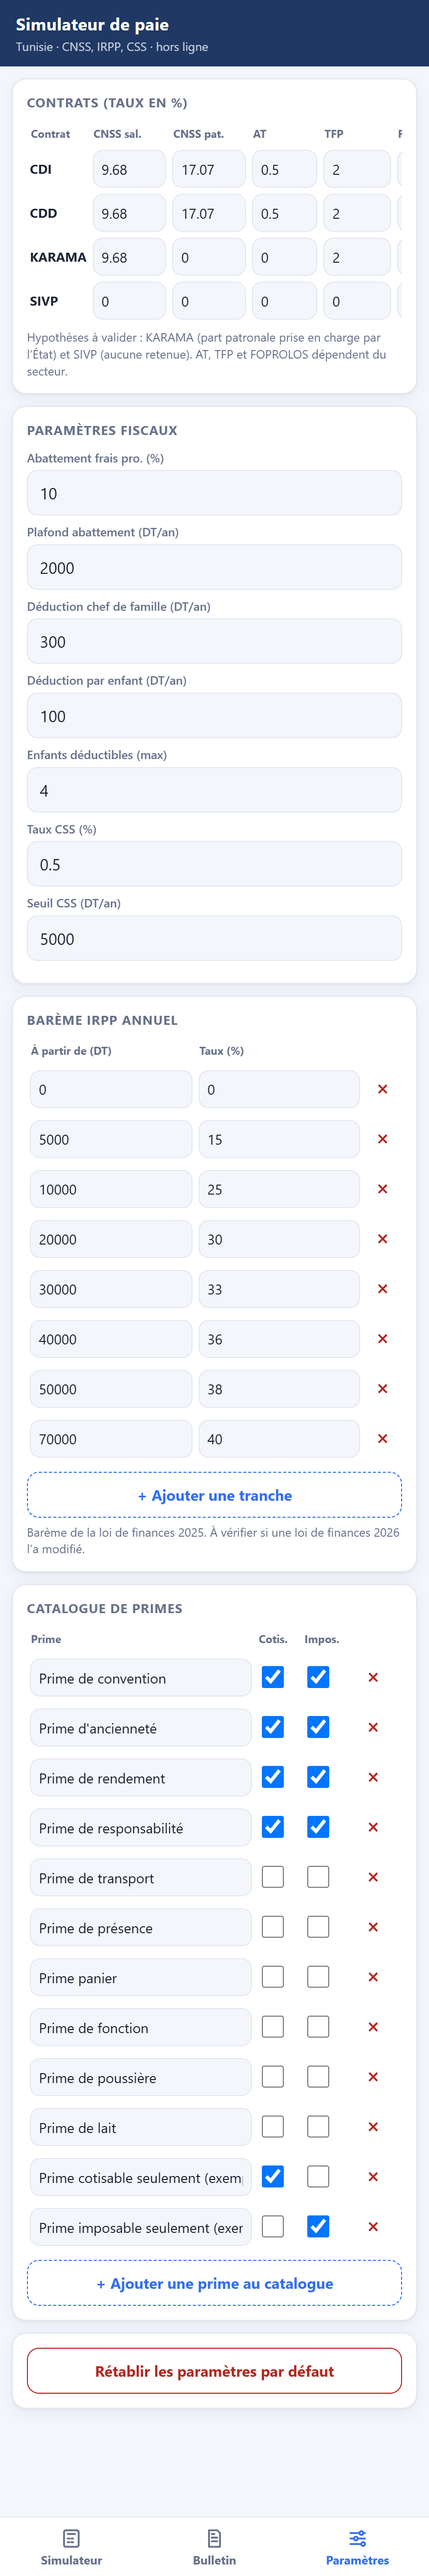
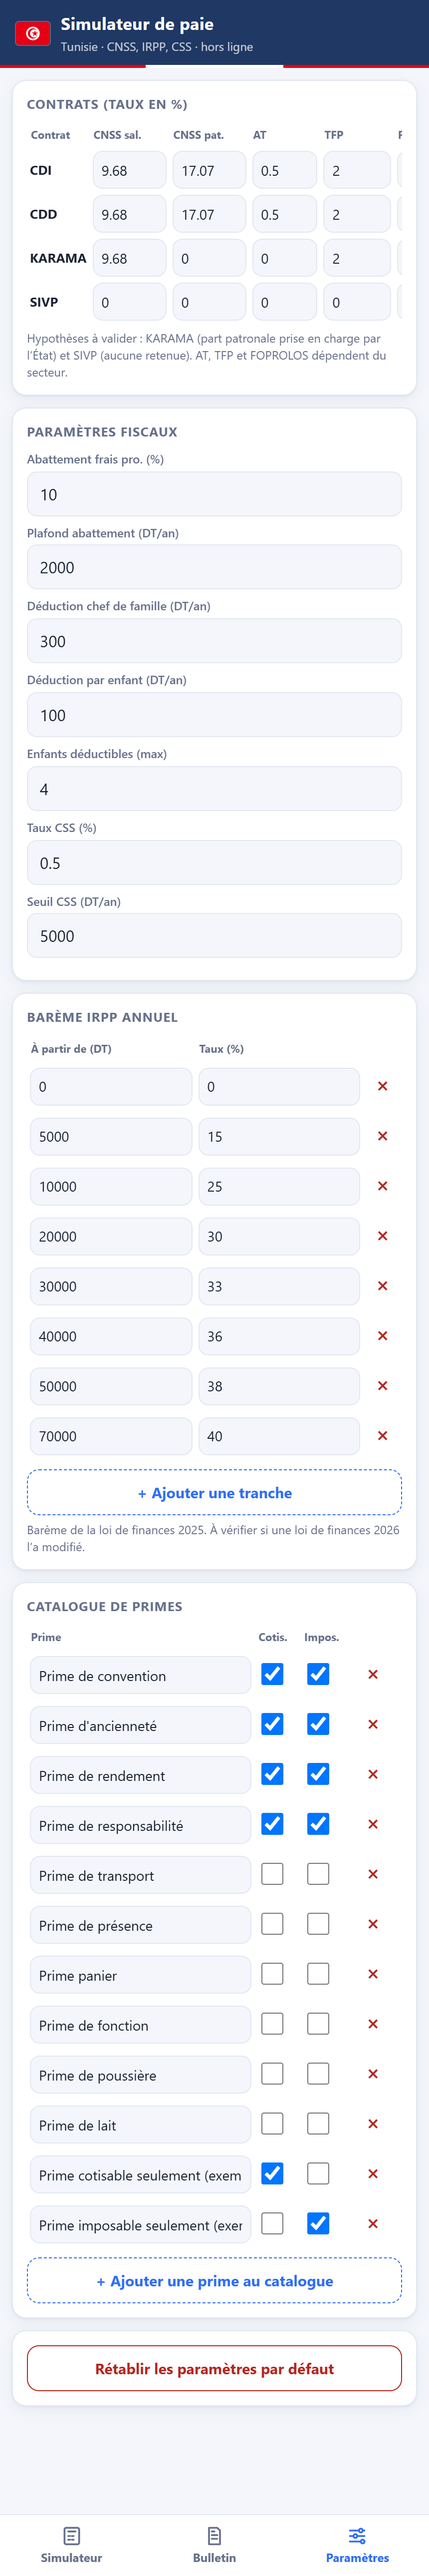
feat: nouveau modele de bulletin noir et blanc, tampon et design tunisien
Bulletin :
- nouveau modele noir et blanc, propre au projet, choisi par defaut :
  en-tete employeur / salarie, bandeau contrat-regime, gains, retenues
  salariales et charges patronales regroupes par section, net a payer
  en encadre, conges et paiement en pied de page
- filigrane au nom de l'auteur en fond de page, tampon d'auteur grave
  en SVG (croissant et etoile) et mention de droit d'auteur en pied
- le filigrane et le tampon sont conserves a l'impression
- l'ancien modele reste disponible via la liste "Modele du bulletin"
- le regime horaire du bulletin est deduit automatiquement

Interface :
- drapeau tunisien en en-tete et filet rouge et blanc
- icones de section en SVG sur chaque carte

README : captures a jour, section sur les deux modeles, note sur le
filigrane, le tampon et les couleurs de l'interface.

sw.js : cache paie-tn-v4.

diff --git a/index.html b/index.html
@@ -22,9 +22,14 @@
 }
 *{box-sizing:border-box;-webkit-tap-highlight-color:transparent}
 html,body{margin:0;background:var(--bg);color:var(--ink);font:15px/1.4 -apple-system,BlinkMacSystemFont,"Segoe UI",Roboto,Arial,sans-serif}
-header{background:var(--navy);color:#fff;padding:calc(env(safe-area-inset-top) + 12px) 16px 12px;position:sticky;top:0;z-index:5}
+header{background:var(--navy);color:#fff;padding:calc(env(safe-area-inset-top) + 12px) 16px 13px;position:sticky;top:0;z-index:5}
 header h1{margin:0;font-size:17px;font-weight:700;letter-spacing:.2px}
 header p{margin:2px 0 0;font-size:12px;opacity:.75}
+header .hwrap{display:flex;align-items:center;gap:11px}
+header .flag{width:34px;height:23px;border-radius:3px;flex:0 0 auto;box-shadow:0 0 0 1px rgba(255,255,255,.25)}
+header::after{content:"";position:absolute;left:0;right:0;bottom:0;height:3px;background:linear-gradient(90deg,#E70013 0 34%,#fff 34% 66%,#E70013 66%)}
+.card h2{display:flex;align-items:center;gap:7px}
+.card h2 svg{width:15px;height:15px;flex:0 0 auto;stroke:currentColor;fill:none;stroke-width:2;stroke-linecap:round;stroke-linejoin:round;opacity:.9}
 main{padding:12px 12px calc(84px + env(safe-area-inset-bottom));max-width:640px;margin:0 auto}
 .card{background:var(--card);border-radius:14px;padding:14px;margin-bottom:12px;box-shadow:var(--shadow);border:1px solid var(--line)}
 .card h2{margin:0 0 10px;font-size:13px;text-transform:uppercase;letter-spacing:.6px;color:var(--muted);font-weight:700}
@@ -125,20 +130,81 @@ table.p-tab tr.fill td{height:100%;padding:0;border-bottom:1px solid #000}
 .p-cg div+div{border-left:1px solid #000;justify-content:center}
 .bul-field label{margin-top:8px}
 
+/* ---------- modèle noir et blanc ---------- */
+.paper.bw{font:11px/1.35 "Segoe UI",Arial,Helvetica,sans-serif;padding:24px 26px 18px;position:relative;overflow:hidden}
+.paper.bw>*:not(.wm){position:relative;z-index:1}
+.wm{position:absolute;inset:0;display:flex;align-items:center;justify-content:center;pointer-events:none;z-index:0;overflow:hidden}
+.wm span{font-size:56px;font-weight:800;letter-spacing:8px;color:#000;opacity:.05;transform:rotate(-27deg);white-space:nowrap;text-transform:uppercase}
+.bw-head{display:flex;justify-content:space-between;align-items:flex-end;border-bottom:2.5px solid #000;padding-bottom:9px}
+.bw-head h1{margin:0;font-size:19px;letter-spacing:4px;font-weight:800;text-transform:uppercase}
+.bw-head .soc{font-size:12px;font-weight:700;margin-top:5px}
+.bw-head .adr{font-size:10px;margin-top:1px}
+.bw-head .per{text-align:right;font-size:10px;line-height:1.6}
+.bw-head .per b{display:block;font-size:14px;letter-spacing:1.5px;text-transform:uppercase}
+.bw-sub{border-top:1px solid #000;margin-top:2px;margin-bottom:14px}
+.bw-cols{display:grid;grid-template-columns:1fr 1fr;gap:0;border:1px solid #000;margin-bottom:12px}
+.bw-cols>div{padding:8px 11px}
+.bw-cols>div+div{border-left:1px solid #000}
+.bw-cols h3{margin:0 0 6px;font-size:9.5px;letter-spacing:2px;text-transform:uppercase;font-weight:800;border-bottom:1px solid #000;padding-bottom:4px}
+.bw-l{display:flex;gap:8px;padding:2px 0;align-items:baseline}
+.bw-l b{min-width:84px;font-weight:600;font-size:10px;text-transform:uppercase;letter-spacing:.3px}
+.bw-l span{flex:1;font-weight:700}
+.bw-band{display:flex;flex-wrap:wrap;gap:0 18px;border:1px solid #000;border-top:0;margin:-12px 0 14px;padding:6px 11px;font-size:10.5px}
+.bw-band i{font-style:normal;text-transform:uppercase;letter-spacing:.4px}
+.bw-band i b{font-weight:800}
+table.bw-tab{width:100%;border-collapse:collapse;font-size:11px;margin-bottom:0}
+table.bw-tab thead th{border-top:1px solid #000;border-bottom:1px solid #000;padding:6px 5px;font-size:9.5px;letter-spacing:1px;text-transform:uppercase;font-weight:800;text-align:right}
+table.bw-tab thead th:first-child{text-align:left}
+table.bw-tab td{padding:4px 5px;text-align:right;white-space:nowrap}
+table.bw-tab td:first-child{text-align:left;white-space:normal}
+table.bw-tab tr.sec td{padding:10px 5px 3px;font-size:9.5px;letter-spacing:1.6px;text-transform:uppercase;font-weight:800}
+table.bw-tab tr.rule td{border-bottom:1px solid #000;padding:0;height:1px}
+table.bw-tab tr.tot td{font-weight:800;border-top:1px solid #000;border-bottom:1px solid #000}
+table.bw-tab tr.dim td{opacity:.72}
+.bw-net{display:flex;justify-content:space-between;align-items:center;border:2.5px solid #000;padding:10px 14px;margin:14px 0 14px}
+.bw-net span{font-size:10.5px;letter-spacing:2.4px;text-transform:uppercase;font-weight:800}
+.bw-net b{font-size:20px;font-weight:800;letter-spacing:.5px}
+.bw-foot{display:grid;grid-template-columns:1fr 212px;gap:16px;align-items:start}
+.bw-mini{width:100%;border-collapse:collapse;font-size:10px}
+.bw-mini th{text-align:left;font-size:9px;letter-spacing:1.2px;text-transform:uppercase;border-bottom:1px solid #000;padding:4px 5px;font-weight:800}
+.bw-mini td{padding:3px 5px;border-bottom:1px solid #bbb}
+.bw-mini td:last-child{text-align:right;font-weight:700}
+.bw-sg{display:grid;grid-template-columns:1fr 1fr;gap:14px;margin-top:14px}
+.bw-sg div b{display:block;font-size:9px;letter-spacing:1.2px;text-transform:uppercase;margin-bottom:5px}
+.bw-sg div i{display:block;border-bottom:1px solid #000;height:62px}
+.bw-seal{position:relative;text-align:center}
+.bw-seal svg{width:122px;height:122px;transform:rotate(-7deg);opacity:.88}
+.bw-seal p{margin:4px 0 0;font-size:8.5px;letter-spacing:.6px;line-height:1.45}
+.bw-copy{border-top:1px solid #000;margin-top:14px;padding-top:7px;display:flex;justify-content:space-between;font-size:8.5px;letter-spacing:.4px}
+
 @media print{
   @page{size:A4;margin:8mm}
   html,body{background:#fff !important}
   body *{visibility:hidden}
   #paper,#paper *{visibility:visible}
   #paper{position:absolute;left:0;top:0;transform:none !important;width:720px;padding:0}
+  .paper.bw{padding:4px 2px !important}
   .paper-wrap{overflow:visible;box-shadow:none;height:auto !important}
+  /* le filigrane et le tampon doivent sortir à l'impression */
+  .wm,.wm span,.bw-seal,.bw-seal svg{-webkit-print-color-adjust:exact;print-color-adjust:exact}
 }
 </style>
 </head>
 <body>
 <header>
-  <h1>Simulateur de paie</h1>
-  <p>Tunisie · CNSS, IRPP, CSS · hors ligne</p>
+  <div class="hwrap">
+    <svg class="flag" viewBox="0 0 60 40" role="img" aria-label="Drapeau de la Tunisie">
+      <rect width="60" height="40" fill="#E70013"/>
+      <circle cx="30" cy="20" r="12" fill="#fff"/>
+      <circle cx="30" cy="20" r="9" fill="#E70013"/>
+      <circle cx="32.2" cy="20" r="7.2" fill="#fff"/>
+      <path fill="#E70013" d="M33.5,14 L34.85,18.15 L39.21,18.15 L35.68,20.71 L37.03,24.85 L33.5,22.29 L29.97,24.85 L31.32,20.71 L27.79,18.15 L32.15,18.15 Z"/>
+    </svg>
+    <div>
+      <h1>Simulateur de paie</h1>
+      <p>Tunisie · CNSS, IRPP, CSS · hors ligne</p>
+    </div>
+  </div>
 </header>
 <main id="app"></main>
 <nav>
@@ -177,7 +243,7 @@ table.p-tab tr.fill td{height:100%;padding:0;border-bottom:1px solid #000}
 
   var now = new Date();
   var BUL_DEF = { societe: '', adresseSoc: '', affil: '', annee: String(now.getFullYear()), mois: MOIS[now.getMonth()],
-    matricule: '', cnssNo: '', emploi: '', categorie: '1', echelon: '1', regime: 'TEMPS PLEIN', adresse: '', cin: '', dept: '',
+    matricule: '', cnssNo: '', emploi: '', categorie: '1', echelon: '1', regime: 'TEMPS PLEIN', template: 'bw', adresse: '', cin: '', dept: '',
     paiement: 'Virement', banque: '', compte: '', acquis: '2', solde: '0' };
   var state = load(KEY_S) || {};
   var bul = Object.assign({}, BUL_DEF, state.bul || {});
@@ -227,6 +293,19 @@ table.p-tab tr.fill td{height:100%;padding:0;border-bottom:1px solid #000}
   function optionsHtml(list, sel) {
     return list.map(function (v) { return '<option value="' + esc(v) + '"' + (v === sel ? ' selected' : '') + '>' + esc(v) + '</option>'; }).join('');
   }
+  // petites icônes de section (tracé simple, couleur héritée du titre)
+  var ICONS = {
+    contrat: '<path d="M6 2h8l4 4v16H6z"/><path d="M14 2v5h5"/><path d="M9 12h7M9 16h5"/>',
+    jours: '<rect x="3" y="5" width="18" height="17" rx="2"/><path d="M3 10h18M8 2v5M16 2v5"/>',
+    heures: '<circle cx="12" cy="12" r="9"/><path d="M12 7v5l3.5 2"/>',
+    famille: '<circle cx="9" cy="8" r="3.4"/><path d="M2.5 21a6.5 6.5 0 0 1 13 0"/><circle cx="17.5" cy="10" r="2.6"/><path d="M15 21a5.6 5.6 0 0 1 6.5-5.4"/>',
+    primes: '<path d="M12 3l2.6 5.6L21 9.4l-4.6 4.3 1.2 6.3L12 17l-5.6 3 1.2-6.3L3 9.4l6.4-.8z"/>',
+    retenues: '<circle cx="12" cy="12" r="9"/><path d="M8 12h8"/>',
+    periode: '<rect x="3" y="5" width="18" height="17" rx="2"/><path d="M3 10h18M8 2v5M16 2v5"/>',
+    modele: '<rect x="3" y="3" width="18" height="18" rx="2"/><path d="M3 9h18M9 21V9"/>',
+    infos: '<circle cx="12" cy="12" r="9"/><path d="M12 11v5M12 7.6v.4"/>'
+  };
+  function ic(n) { return '<svg viewBox="0 0 24 24" aria-hidden="true">' + (ICONS[n] || '') + '</svg>'; }
   function pairsHtml(pairs, sel) {
     return pairs.map(function (p) { return '<option value="' + esc(p[0]) + '"' + (p[0] === sel ? ' selected' : '') + '>' + esc(p[1]) + '</option>'; }).join('');
   }
@@ -251,7 +330,7 @@ table.p-tab tr.fill td{height:100%;padding:0;border-bottom:1px solid #000}
     }).join('');
     $('#app').innerHTML =
       '<button class="install" id="installBtn">Installer l’application sur le téléphone</button>' +
-      '<div class="card"><h2>Contrat</h2>' +
+      '<div class="card"><h2>' + ic('contrat') + 'Contrat</h2>' +
       '<div class="row"><div><label>Nom du salarié (facultatif)</label><input type="text" data-k="name" value="' + esc(state.name) + '" placeholder="Nom et prénom"></div></div>' +
       '<div class="row"><div><label>Type de contrat</label><select data-k="contract">' + optionsHtml(contracts, state.contract) + '</select></div></div>' +
       '<div class="row c2"><div><label>Régime de paie</label><select data-k="regime">' +
@@ -263,7 +342,7 @@ table.p-tab tr.fill td{height:100%;padding:0;border-bottom:1px solid #000}
       '<label>Le contrat indique</label><div class="seg" role="group">' + modeBtns + '</div>' +
       '<p class="hint" id="modeHint"></p>' +
       '<div class="row" style="margin-top:12px"><div><label id="amountLab"></label><input type="text" inputmode="decimal" data-k="amount" value="' + esc(state.amount) + '"></div></div></div>' +
-      '<div class="card"><h2>' + (isH() ? 'Heures du mois' : 'Jours du mois') + '</h2>' +
+      '<div class="card"><h2>' + ic(isH() ? 'heures' : 'jours') + (isH() ? 'Heures du mois' : 'Jours du mois') + '</h2>' +
       (isH() ?
         '<div class="row c2"><div><label>Heures prévues (H.Prev)</label><input type="text" inputmode="decimal" data-k="hprev" value="' + esc(state.hprev) + '" placeholder="' + dj(hDef()) + '"></div>' +
         '<div><label>Heures travaillées</label><input type="text" inputmode="decimal" data-k="htrav" value="' + esc(state.htrav) + '" placeholder="auto"></div></div>' +
@@ -276,14 +355,14 @@ table.p-tab tr.fill td{height:100%;padding:0;border-bottom:1px solid #000}
         '<div class="row c2"><div><label>Jours fériés payés</label><input type="text" inputmode="decimal" data-k="feries" value="' + esc(state.feries) + '" placeholder="0"></div>' +
         '<div><label>Congés payés / maladie</label><input type="text" inputmode="decimal" data-k="conges" value="' + esc(state.conges) + '" placeholder="0"></div></div>') +
       '<div id="daysInfo"></div></div>' +
-      '<div class="card"><h2>Situation familiale</h2><div class="row c2">' +
+      '<div class="card"><h2>' + ic('famille') + 'Situation familiale</h2><div class="row c2">' +
       '<div><label>Chef de famille</label><div class="seg"><button data-act="chef" data-v="0" class="' + (!state.chef ? 'on' : '') + '">Non</button><button data-act="chef" data-v="1" class="' + (state.chef ? 'on' : '') + '">Oui</button></div></div>' +
       '<div><label>Enfants à charge</label><select data-k="enfants">' + [0, 1, 2, 3, 4, 5, 6].map(function (n) { return '<option value="' + n + '"' + (state.enfants === n ? ' selected' : '') + '>' + n + '</option>'; }).join('') + '</select></div></div></div>' +
-      '<div class="card"><h2>Primes (montant d’un mois complet)</h2><div id="primes">' + state.primes.map(primeHtml).join('') + '</div>' +
+      '<div class="card"><h2>' + ic('primes') + 'Primes (montant d’un mois complet)</h2><div id="primes">' + state.primes.map(primeHtml).join('') + '</div>' +
       '<button class="btn" data-act="addprime">+ Ajouter une prime</button>' +
       '<p class="hint">Les primes sont proratisées sur ' + (isH() ? 'les heures travaillées' : 'les jours travaillés') +
         (qte() === 1 ? '' : ', puis réduites de moitié (mi-temps)') + '.</p></div>' +
-      '<div class="card"><h2>Retenues sur le net</h2><div class="row c3">' +
+      '<div class="card"><h2>' + ic('retenues') + 'Retenues sur le net</h2><div class="row c3">' +
       '<div><label>Avance</label><input type="text" inputmode="decimal" data-k="avance" value="' + esc(state.avance) + '" placeholder="0"></div>' +
       '<div><label>Crédit</label><input type="text" inputmode="decimal" data-k="credit" value="' + esc(state.credit) + '" placeholder="0"></div>' +
       '<div><label>Pénalités</label><input type="text" inputmode="decimal" data-k="penal" value="' + esc(state.penal) + '" placeholder="0"></div></div></div>' +
@@ -359,8 +438,10 @@ table.p-tab tr.fill td{height:100%;padding:0;border-bottom:1px solid #000}
       return '<div class="bul-field"><label>' + x[1] + '</label><input type="text" data-b="' + x[0] + '" value="' + esc(bul[x[0]]) + '"></div>';
     }).join('');
     $('#app').innerHTML =
-      '<div class="card"><h2>Période</h2><div class="row c2"><div><label>Mois de paie</label><select data-b="mois">' + optionsHtml(MOIS, bul.mois) + '</select></div>' +
+      '<div class="card"><h2>' + ic('periode') + 'Période</h2><div class="row c2"><div><label>Mois de paie</label><select data-b="mois">' + optionsHtml(MOIS, bul.mois) + '</select></div>' +
       '<div><label>Année</label><input type="text" inputmode="numeric" data-b="annee" value="' + esc(bul.annee) + '"></div></div>' +
+      '<div class="row"><div><label>Modèle du bulletin</label><select data-b="template">' +
+        pairsHtml([['bw', 'Noir et blanc (avec tampon)'], ['classique', 'Classique']], bul.template) + '</select></div></div>' +
       '<p class="hint">Les montants viennent de l’onglet Simulateur (contrat, jours, primes).</p></div>' +
       '<div class="btns"><button class="btn solid" data-act="print">Imprimer / PDF</button><button class="btn ghost" style="border-style:solid" data-act="share">Partager</button></div>' +
       '<div class="paper-wrap" id="pwrap"><div class="paper" id="paper"></div></div>' +
@@ -368,8 +449,111 @@ table.p-tab tr.fill td{height:100%;padding:0;border-bottom:1px solid #000}
     updatePaper();
   }
   function tr(cls, cells) { return '<tr class="' + cls + '">' + cells.map(function (c, i) { return '<td' + (i > 0 ? ' class="r"' : '') + '>' + (c == null ? '' : c) + '</td>'; }).join('') + '</tr>'; }
+
+  /* ---------- modèle noir et blanc ---------- */
+  var AUTEUR = 'Aya Fekih Romdhane';
+  function sealSvg() {
+    return '<svg viewBox="0 0 160 160" role="img" aria-label="Tampon de l’auteur">' +
+      '<defs><path id="arcT" d="M 25,80 A 55,55 0 0 1 135,80"/><path id="arcB" d="M 33,80 A 47,47 0 0 0 127,80"/></defs>' +
+      '<circle cx="80" cy="80" r="74" fill="none" stroke="#111" stroke-width="3"/>' +
+      '<circle cx="80" cy="80" r="65" fill="none" stroke="#111" stroke-width="1.2"/>' +
+      '<text font-family="Arial,Helvetica,sans-serif" font-size="13" font-weight="700" letter-spacing="1.4" fill="#111">' +
+      '<textPath href="#arcT" startOffset="50%" text-anchor="middle">AYA FEKIH ROMDHANE</textPath></text>' +
+      '<text font-family="Arial,Helvetica,sans-serif" font-size="8.6" font-weight="700" letter-spacing="1.7" fill="#111">' +
+      '<textPath href="#arcB" startOffset="50%" text-anchor="middle">AUTEUR · DÉVELOPPEUR</textPath></text>' +
+      '<circle cx="80" cy="72" r="14" fill="#111"/><circle cx="83.4" cy="72" r="11.2" fill="#fff"/>' +
+      '<path fill="#111" d="M86.5,64.5 L88.26,69.9 L93.95,69.9 L89.34,73.24 L91.1,78.64 L86.5,75.3 L81.9,78.64 L83.66,73.24 L79.05,69.9 L84.74,69.9 Z"/>' +
+      '<path d="M62 94 H98" stroke="#111" stroke-width="1"/>' +
+      '<text x="80" y="107" text-anchor="middle" font-family="Arial,Helvetica,sans-serif" font-size="9.5" font-weight="700" letter-spacing="1.2" fill="#111">© 2026</text>' +
+      '</svg>';
+  }
+  function paperBW(r, c, D, U) {
+    var B = function (k) { return esc(bul[k]); };
+    var cell = function (v, cls) { return '<td' + (cls ? ' class="' + cls + '"' : '') + '>' + (v == null || v === '' ? '' : v) + '</td>'; };
+    var line = function (cells, cls) { return '<tr' + (cls ? ' class="' + cls + '"' : '') + '>' + cells.map(function (v) { return cell(v); }).join('') + '</tr>'; };
+    var sec = function (t) { return '<tr class="sec"><td colspan="6">' + t + '</td></tr><tr class="rule"><td colspan="6"></td></tr>'; };
+    var nb = r.horaire ? ' h' : ' j';
+
+    var rows = sec('Gains');
+    rows += line(['Salaire de base', f1(U.trav) + nb, f5(r.rate), fp(U.trav / U.prev), f3(r.gBase), '']);
+    if (U.con) rows += line(['Congés payés / maladie', f1(U.con) + nb, f5(r.rate), fp(U.con / U.prev), f3(r.gCon), '']);
+    if (U.fer) rows += line([(r.horaire ? 'Heures fériées' : 'Jours fériés'), f1(U.fer) + nb, f5(r.rate), fp(U.fer / U.prev), f3(r.gFer), '']);
+    if (U.abs) rows += line(['Absences non payées', f1(U.abs) + nb, '', fp(U.abs / U.prev), f3(r.gAbs), ''], 'dim');
+    r.primes.forEach(function (p) { rows += line([esc(p.name), f1(U.trav) + nb, f5(p.full / U.prev), '', f3(p.amount), '']); });
+    rows += line(['Total brut', '', '', '', f3(r.brut), ''], 'tot');
+
+    rows += sec('Retenues salariales');
+    rows += line(['Retenue CNSS', '', f3(r.brutCot), pct(c.cnssS || 0), '', f3(r.cnss)]);
+    rows += line(['IRPP', '', f3(r.impMens), '', '', f3(r.irpp)]);
+    if (r.css) rows += line(['Contribution Sociale Solidaire', '', f3(r.rni / 12), pct(params.fiscal.cssRate), '', f3(r.css)]);
+    rows += line(['Total des retenues', '', '', '', '', f3(r.retenues)], 'tot');
+
+    if (r.autres) {
+      rows += sec('Autres retenues');
+      if (WP.num(state.avance)) rows += line(['Avance', '', '', '', '', f3(WP.num(state.avance))]);
+      if (WP.num(state.credit)) rows += line(['Remboursement crédit', '', '', '', '', f3(WP.num(state.credit))]);
+      if (WP.num(state.penal)) rows += line(['Pénalités', '', '', '', '', f3(WP.num(state.penal))]);
+    }
+
+    rows += sec('Charges patronales (information)');
+    rows += line(['CNSS patronale', '', f3(r.brutCot), pct(c.cnssP || 0), '', f3(r.patr)], 'dim');
+    rows += line(['Accident du travail', '', f3(r.brutCot), pct(c.at || 0), '', f3(r.at)], 'dim');
+    rows += line(['TFP', '', f3(r.brutCot), pct(c.tfp || 0), '', f3(r.tfp)], 'dim');
+    rows += line(['FOPROLOS', '', f3(r.brutCot), pct(c.foprolos || 0), '', f3(r.fop)], 'dim');
+    rows += line(['Coût total employeur', '', '', '', '', f3(r.cout)], 'tot');
+
+    var band = '<i>Contrat <b>' + esc(state.contract) + '</b></i><i>Régime <b>' + regimeLabel() + '</b></i>' +
+      '<i>J.Prev <b>' + dj(D.prev) + ' j</b></i>' + (r.horaire ? '<i>H.Prev <b>' + dj(U.prev) + ' h</b></i>' : '') +
+      '<i>Base <b>' + (r.horaire ? f5(r.rate) + ' DT/h' : f3(r.baseMois) + ' DT') + '</b></i>' +
+      '<i>Situation <b>' + (state.chef ? 'Chef de famille' : 'Célibataire') + '</b></i>' +
+      '<i>Enfants <b>' + state.enfants + '</b></i>';
+
+    return '<div class="wm"><span>' + esc(AUTEUR) + '</span></div>' +
+      '<div class="bw-head"><div><h1>Bulletin de paie</h1>' +
+        '<div class="soc">' + (B('societe') || '—') + '</div><div class="adr">' + B('adresseSoc') +
+        (bul.affil ? ' · Affiliation CNSS ' + B('affil') : '') + '</div></div>' +
+        '<div class="per">Période de paie<b>' + B('mois') + ' ' + B('annee') + '</b>Édité le ' + new Date().toLocaleDateString('fr-FR') + '</div></div>' +
+      '<div class="bw-sub"></div>' +
+      '<div class="bw-cols"><div><h3>Employeur</h3>' +
+        '<div class="bw-l"><b>Société</b><span>' + (B('societe') || '—') + '</span></div>' +
+        '<div class="bw-l"><b>Adresse</b><span>' + (B('adresseSoc') || '—') + '</span></div>' +
+        '<div class="bw-l"><b>Affiliation</b><span>' + (B('affil') || '—') + '</span></div>' +
+        '<div class="bw-l"><b>Département</b><span>' + (B('dept') || '—') + '</span></div></div>' +
+      '<div><h3>Salarié</h3>' +
+        '<div class="bw-l"><b>Nom</b><span>' + (esc(state.name) || '—') + '</span></div>' +
+        '<div class="bw-l"><b>Emploi</b><span>' + (B('emploi') || '—') + '</span></div>' +
+        '<div class="bw-l"><b>Matricule</b><span>' + (B('matricule') || '—') + '</span></div>' +
+        '<div class="bw-l"><b>N° CNSS</b><span>' + (B('cnssNo') || '—') + '</span></div>' +
+        '<div class="bw-l"><b>CIN</b><span>' + (B('cin') || '—') + '</span></div></div></div>' +
+      '<div class="bw-band">' + band + '</div>' +
+      '<table class="bw-tab"><thead><tr><th>Désignation</th><th>Nombre</th><th>Base</th><th>Taux</th><th>Gain</th><th>Retenue</th></tr></thead>' +
+        '<tbody>' + rows + '</tbody></table>' +
+      '<div class="bw-net"><span>Net à payer</span><b>' + f3(r.netAPayer) + ' DT</b></div>' +
+      '<div class="bw-foot"><div>' +
+        '<table class="bw-mini"><tr><th colspan="2">Congés</th></tr>' +
+          '<tr><td>Congés pris ce mois (payé / maladie)</td><td>' + f1(U.con) + nb + '</td></tr>' +
+          '<tr><td>Congés acquis ce mois</td><td>' + f1(WP.num(bul.acquis)) + ' j</td></tr>' +
+          '<tr><td>Solde congé payé</td><td>' + f1(WP.num(bul.solde)) + ' j</td></tr>' +
+          '<tr><td>' + (r.horaire ? 'Heures' : 'Jours') + ' d’absence</td><td>' + f1(U.abs) + nb + '</td></tr></table>' +
+        '<table class="bw-mini" style="margin-top:10px"><tr><th colspan="2">Paiement</th></tr>' +
+          '<tr><td>Mode</td><td>' + (B('paiement') || '—') + '</td></tr>' +
+          '<tr><td>Banque</td><td>' + (B('banque') || '—') + '</td></tr>' +
+          '<tr><td>N° de compte</td><td>' + (B('compte') || '—') + '</td></tr></table>' +
+        '<div class="bw-sg"><div><b>Signature et cachet employeur</b><i></i></div><div><b>Signature employé</b><i></i></div></div></div>' +
+      '<div class="bw-seal">' + sealSvg() + '<p><b>' + esc(AUTEUR) + '</b><br>Conception et développement<br>du simulateur de paie</p></div></div>' +
+      '<div class="bw-copy"><span>Simulateur de paie — Tunisie · document généré à titre indicatif</span>' +
+        '<span>© 2026 ' + esc(AUTEUR) + ' — tous droits réservés</span></div>';
+  }
   function updatePaper() {
     var r = calc(), c = params.contracts[state.contract] || {}, D = r.days, U = r.units;
+    var sheet = $('#paper');
+    if (bul.template !== 'classique') {
+      sheet.className = 'paper bw';
+      sheet.innerHTML = paperBW(r, c, D, U);
+      window._last = r;
+      return;
+    }
+    sheet.className = 'paper';
     var sit = state.chef ? 'CHEF DE FAMILLE' : 'CELIBATAIRE';
     var rows = '';
     rows += tr('', ['Salaire de base', f1(U.trav), f5(r.rate), fp(U.trav / U.prev), f3(r.gBase), '', '', '']);

diff --git a/sw.js b/sw.js
@@ -1,4 +1,4 @@
-const CACHE = 'paie-tn-v3';
+const CACHE = 'paie-tn-v4';
 const ASSETS = ['./', './index.html', './calc.js', './manifest.webmanifest', './icon-192.png', './icon-512.png', './icon-maskable-512.png'];
 self.addEventListener('install', (e) => {
   e.waitUntil(caches.open(CACHE).then((c) => c.addAll(ASSETS)).then(() => self.skipWaiting()));

diff --git a/README.md b/README.md
@@ -26,9 +26,13 @@ En régime horaire, le mois se compte en heures (`H.Prev`) et le salaire de base
 
 ### Bulletin de paie
 
-Bulletin complet, prêt à imprimer ou à exporter en PDF depuis le navigateur.
+Modèle **noir et blanc**, prêt à imprimer ou à exporter en PDF depuis le navigateur. Le nom de l'auteur apparaît en filigrane en fond de page, avec le tampon d'auteur et la mention de droit d'auteur en pied de document — à l'écran comme à l'impression.
 
 ![Bulletin de paie](docs/screenshots/bulletin.png)
+
+Un second modèle, plus proche d'un bulletin classique, reste disponible dans la liste **Modèle du bulletin** :
+
+![Modèle classique](docs/screenshots/bulletin-classique.png)
 
 ### Paramètres
 
@@ -79,6 +83,15 @@ Avance, remboursement de crédit et pénalités sont déduits après le calcul d
 ### Bulletin de paie
 
 Bulletin au format tunisien : en-tête société et salarié, tableau des gains et retenues avec part patronale, net à payer en dinars, mode de paiement, zones de signature et suivi des congés. Imprimable directement ou exportable en PDF.
+
+Deux modèles au choix :
+
+| Modèle | Description |
+|--------|-------------|
+| **Noir et blanc** (par défaut) | Mise en page sobre, gains et retenues regroupés par section, filigrane au nom de l'auteur, tampon d'auteur et mention de droit d'auteur |
+| **Classique** | Mise en page tabulaire traditionnelle, encadrés pleine largeur |
+
+Le filigrane et le tampon sont conservés à l'impression comme à l'affichage.
 
 ### Paramètres modifiables
 
@@ -220,6 +233,8 @@ Principales fonctions exposées : `solve`, `solveBase`, `compute`, `normDays`, `
 ## Technologies
 
 HTML, CSS et JavaScript natifs — aucun framework, aucune dépendance, aucune compilation. Progressive Web App (manifeste et service worker), données conservées en `localStorage`, hébergement GitHub Pages.
+
+Interface aux couleurs de la Tunisie : drapeau en en-tête, filet rouge et blanc, icônes de section dessinées en SVG. Le tampon d'auteur du bulletin est lui aussi un SVG, sans image externe — le document reste donc entièrement autonome et imprimable hors ligne.
 
 ---
 
